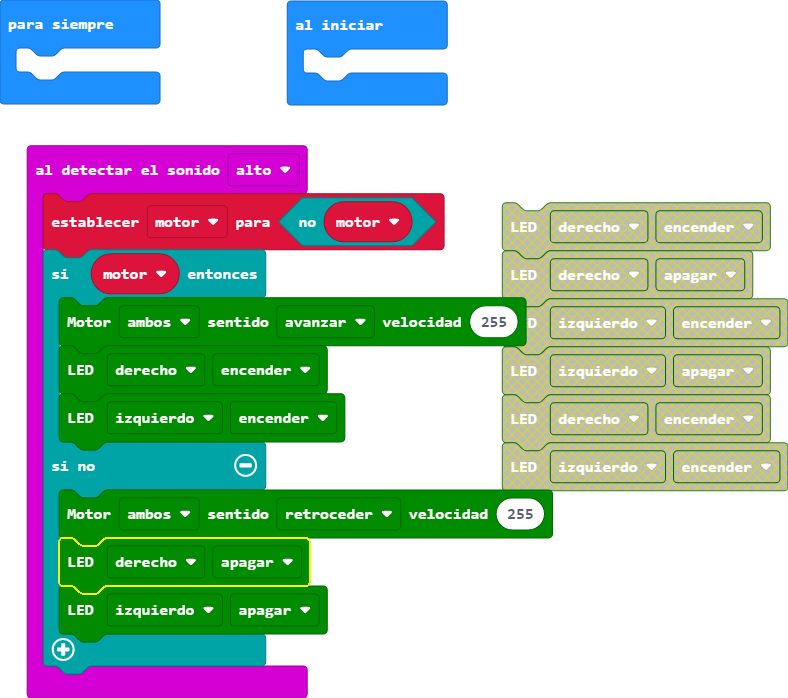
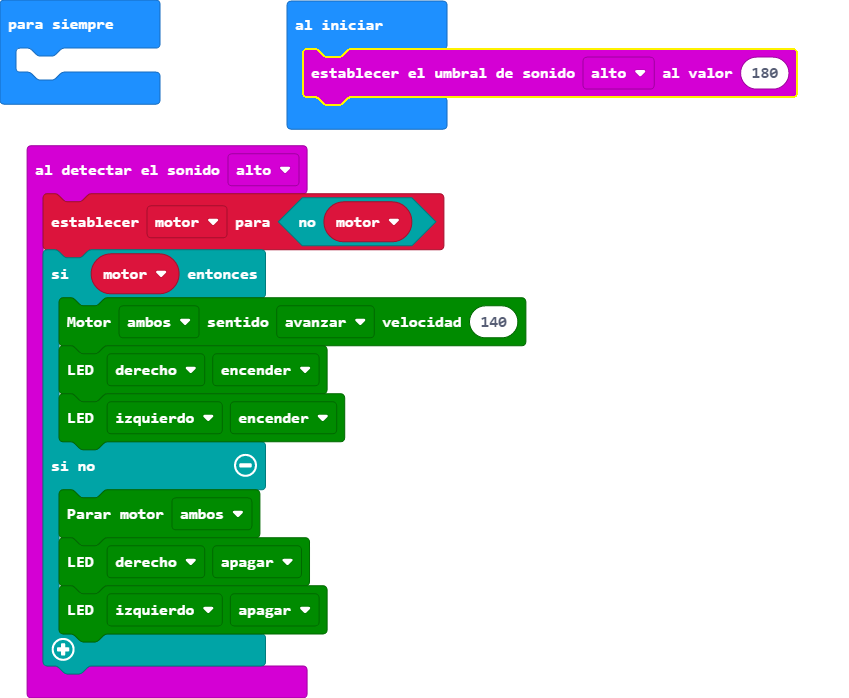
Actualizar main.blocks, main.ts

Changed region(s): [[0.0305, 0.0, 1.0, 1.0], [0.0, 0.0301, 0.1523, 0.1203], [0.1827, 0.0, 0.2132, 0.1504]]

diff --git a/main.ts b/main.ts
@@ -1,16 +1,17 @@
-let motor = false
 input.onSound(DetectedSound.Loud, function () {
     motor = !(motor)
     if (motor) {
-        maqueen.motorRun(maqueen.Motors.All, maqueen.Dir.CW, 255)
+        maqueen.motorRun(maqueen.Motors.All, maqueen.Dir.CW, 140)
         maqueen.writeLED(maqueen.LED.LEDLeft, maqueen.LEDswitch.turnOn)
         maqueen.writeLED(maqueen.LED.LEDRight, maqueen.LEDswitch.turnOn)
     } else {
-        maqueen.motorRun(maqueen.Motors.All, maqueen.Dir.CCW, 255)
+        maqueen.motorStop(maqueen.Motors.All)
         maqueen.writeLED(maqueen.LED.LEDLeft, maqueen.LEDswitch.turnOff)
         maqueen.writeLED(maqueen.LED.LEDRight, maqueen.LEDswitch.turnOff)
     }
 })
+let motor = false
+input.setSoundThreshold(SoundThreshold.Loud, 180)
 basic.forever(function () {
 	
 })
